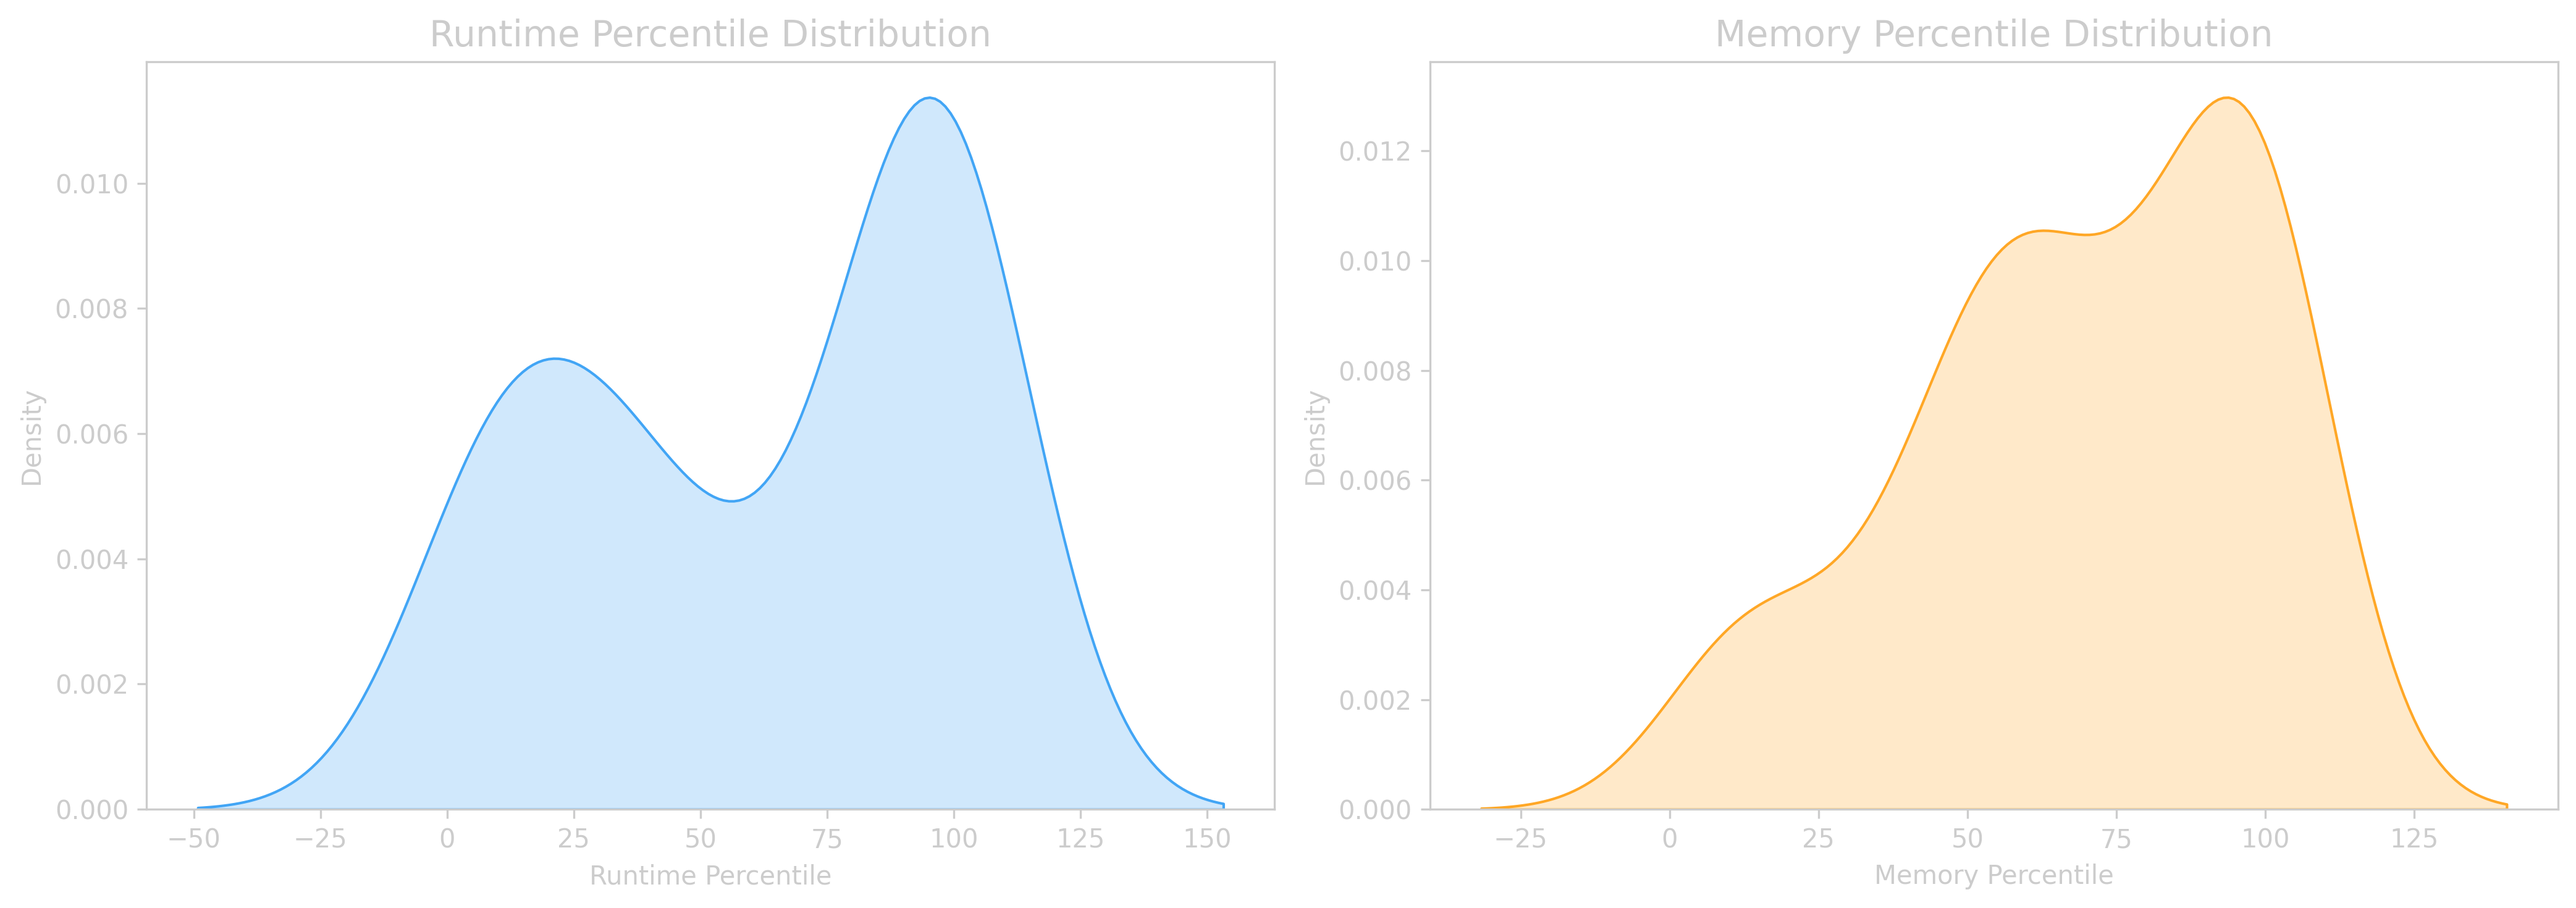
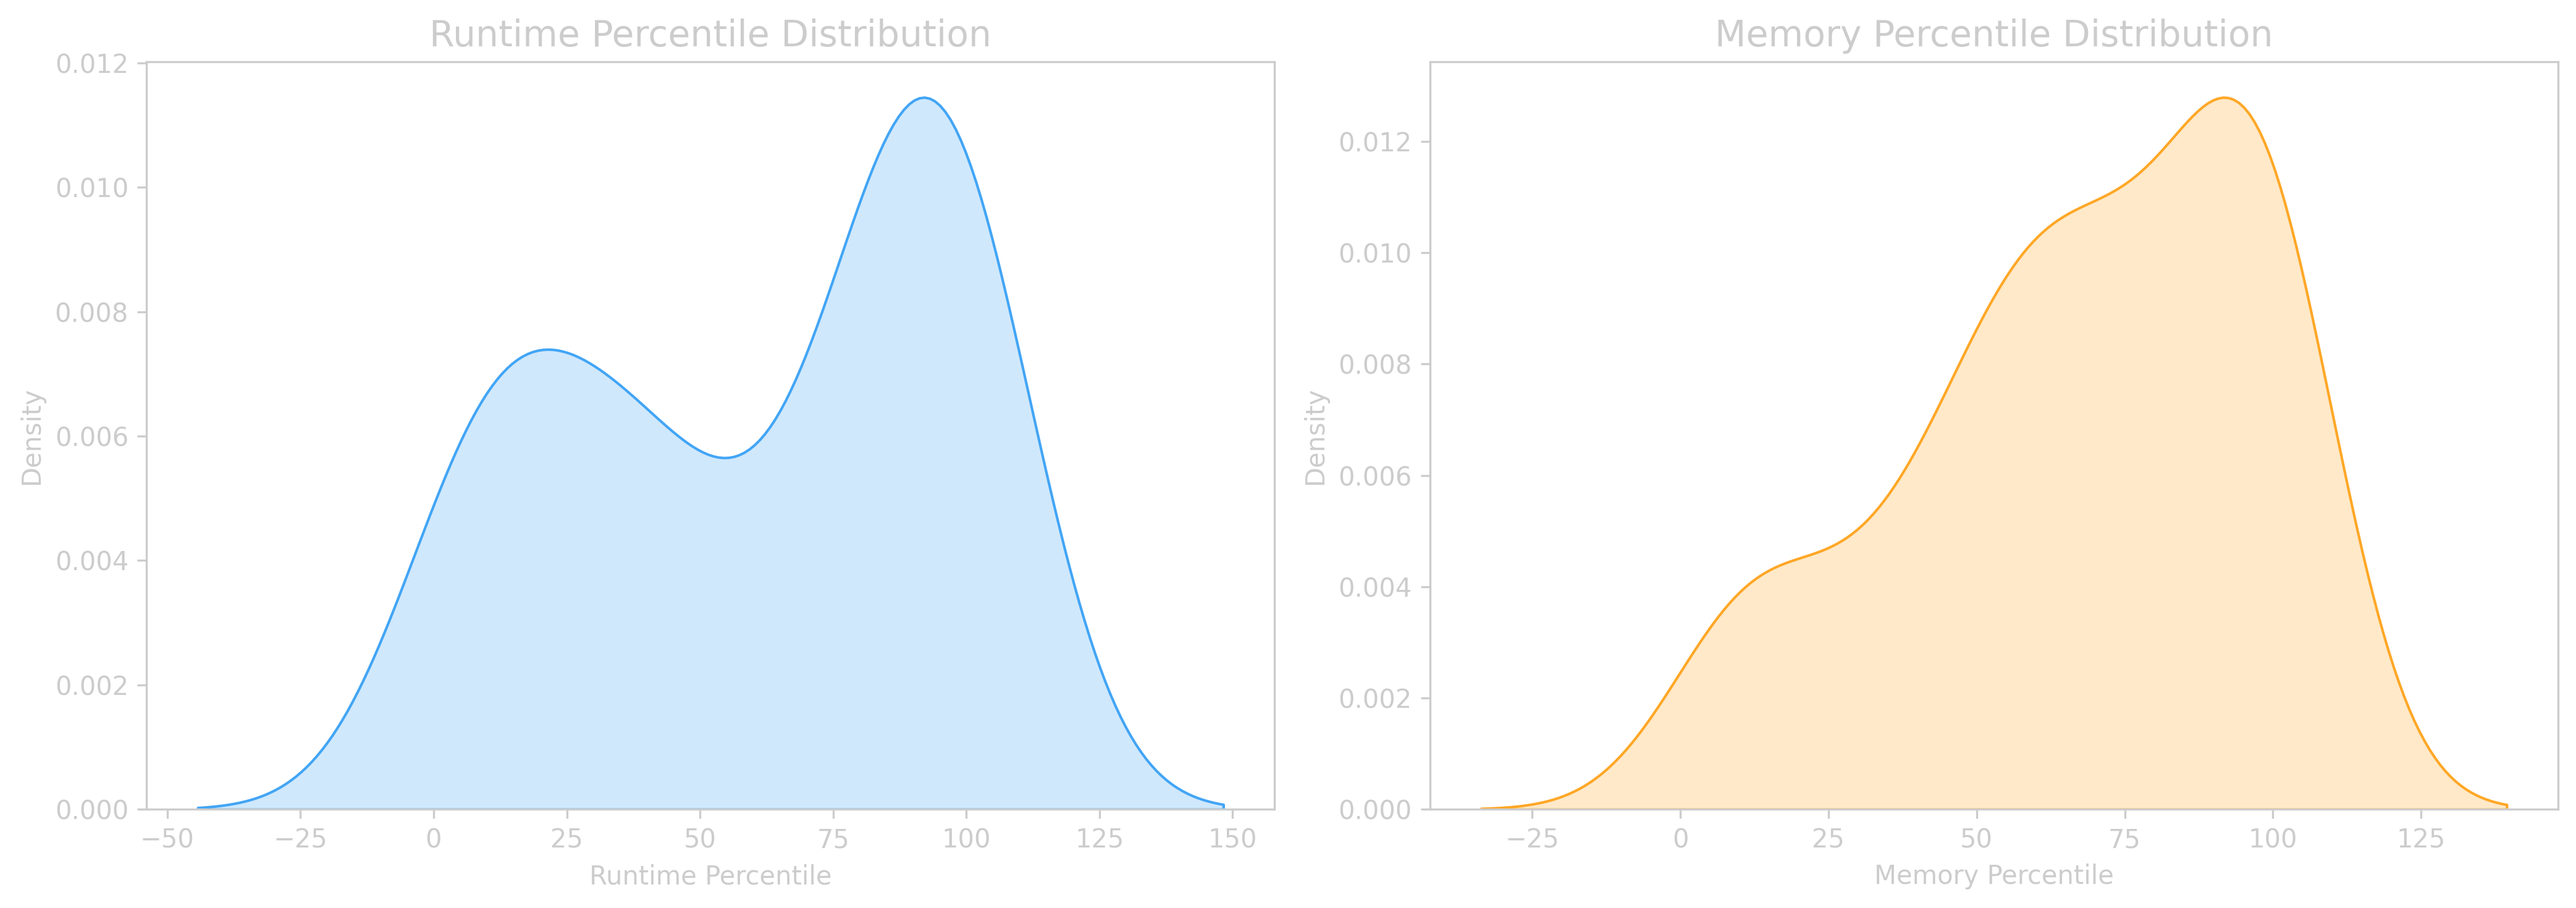
Update stats and visuals

diff --git a/README.md b/README.md
@@ -5,50 +5,50 @@
 - **Runtime:** `589.00ms` (Top 24.98%)
 - **Memory:** `65.50MB` (Top 76.23%)
 
-### display-the-first-three-rows-3065
-- **Runtime:** `684.00ms` (Top 10.24%)
-- **Memory:** `65.20MB` (Top 92.86%)
+### drop-missing-data-3075
+- **Runtime:** `718.00ms` (Top 9.07%)
+- **Memory:** `66.20MB` (Top 78.26%)
 
-### create-a-dataframe-from-list-3062
-- **Runtime:** `573.00ms` (Top 19.90%)
-- **Memory:** `64.70MB` (Top 95.87%)
+### select-data-3074
+- **Runtime:** `744.00ms` (Top 6.82%)
+- **Memory:** `66.20MB` (Top 70.40%)
 
-### sum-of-squares-of-special-elements--2844
-- **Runtime:** `1.00ms` (Top 100.00%)
-- **Memory:** `44.10MB` (Top 95.31%)
+### reshape-data-melt-3073
+- **Runtime:** `408.00ms` (Top 81.04%)
+- **Memory:** `65.60MB` (Top 92.47%)
 
-### max-sum-of-a-pair-with-equal-sum-of-digits-2473
-- **Runtime:** `627.00ms` (Top 7.77%)
-- **Memory:** `34.00MB` (Top 14.35%)
+### reshape-data-pivot-3072
+- **Runtime:** `406.00ms` (Top 82.17%)
+- **Memory:** `66.10MB` (Top 96.26%)
 
-### employees-whose-manager-left-the-company-2127
-- **Runtime:** `509.00ms` (Top 19.29%)
-- **Memory:** `0.00MB` (Top 100.00%)
+### drop-duplicate-rows-3071
+- **Runtime:** `510.00ms` (Top 41.64%)
+- **Memory:** `66.60MB` (Top 12.98%)
 
-### recyclable-and-low-fat-products-1908
-- **Runtime:** `346.00ms` (Top 82.43%)
-- **Memory:** `0.00MB` (Top 100.00%)
+### fill-missing-data-3070
+- **Runtime:** `507.00ms` (Top 42.21%)
+- **Memory:** `65.60MB` (Top 67.39%)
 
-### invalid-tweets-1827
-- **Runtime:** `787.00ms` (Top 35.64%)
-- **Memory:** `0.00MB` (Top 100.00%)
+### change-data-type-3069
+- **Runtime:** `358.00ms` (Top 82.97%)
+- **Memory:** `65.50MB` (Top 80.35%)
 
-### fix-names-in-a-table-1811
-- **Runtime:** `834.00ms` (Top 46.20%)
-- **Memory:** `0.00MB` (Top 100.00%)
+### rename-columns-3068
+- **Runtime:** `388.00ms` (Top 78.63%)
+- **Memory:** `65.90MB` (Top 40.02%)
 
-### patients-with-a-condition-1670
-- **Runtime:** `209.00ms` (Top 90.54%)
-- **Memory:** `0.00MB` (Top 100.00%)
+### modify-columns-3067
+- **Runtime:** `407.00ms` (Top 72.10%)
+- **Memory:** `65.60MB` (Top 66.95%)
 
 ## Language Statistics
-- **PY**: 42 files
+- **PY**: 54 files
 - **JAVA**: 22 files
 - **SQL**: 20 files
 
 ## Overall Performance
-- **Average Runtime:** 203.21ms
-- **Average Memory:** 22.75MB
+- **Average Runtime:** 268.04ms
+- **Average Memory:** 32.35MB
 
 ## Visualizations
 ![Language Distribution](images/lang_distribution.png)
